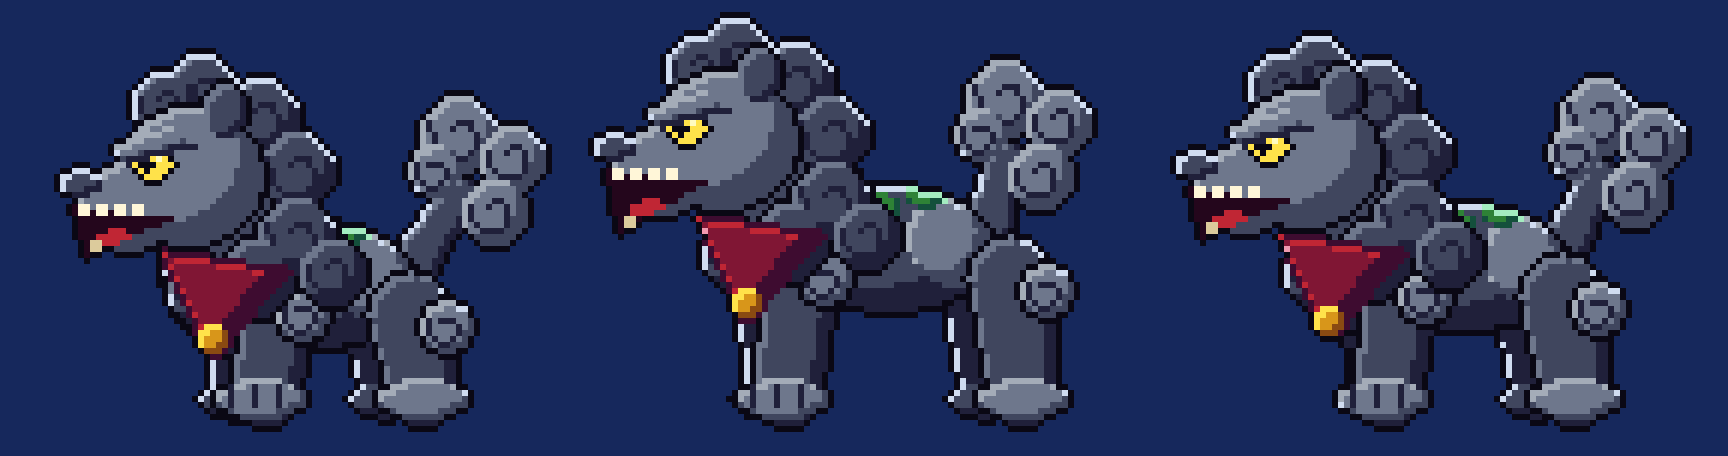
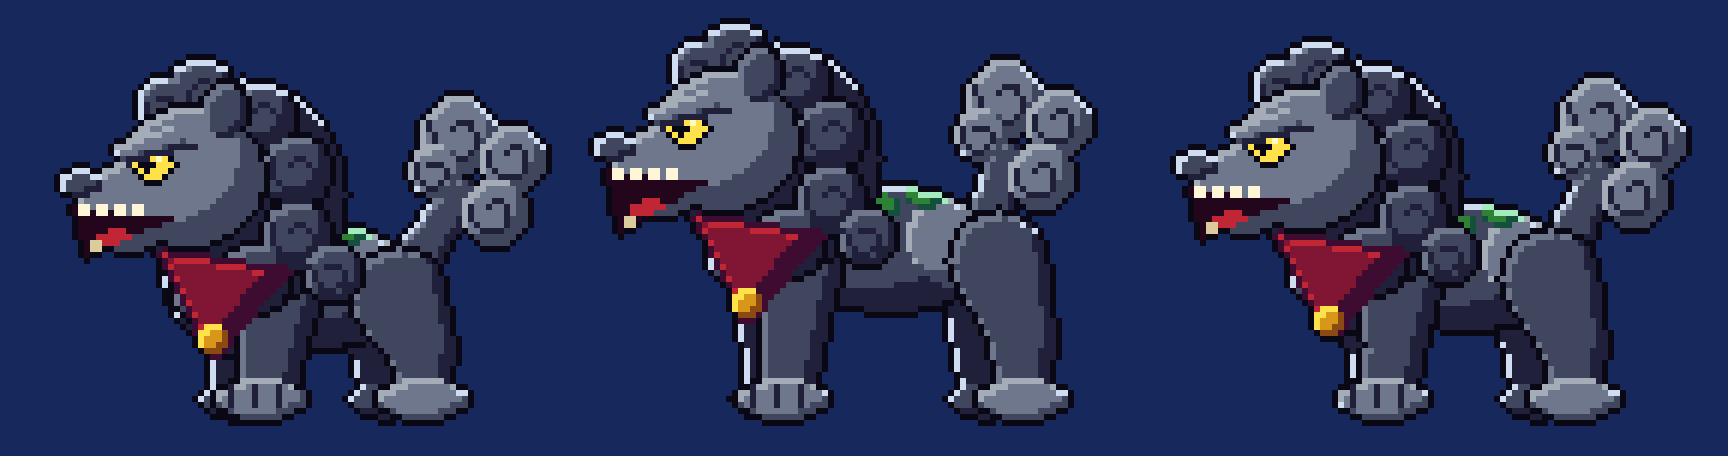
Runde 97: Sprites überarbeitet – Zashiki-warashi (Gesicht sichtbar), Komainu (keine Gelenkkugeln), Nuppeppo (Gesicht, Falten, Warzen), Tsurube-otoshi (wirres Haar statt Hutkrempe)
Claude-Session: https://claude.ai/code/session_01KhgxT7a5tRTGeQVFkHSAcV

diff --git a/art_src/fable/enemies_5/zashiki.py b/art_src/fable/enemies_5/zashiki.py
@@ -13,14 +13,14 @@ OBI = ('y0', 'y1', 'y2')
 SKIN = ('k1', 'k2', 'k3')
 HAIR = ('h0', 'hb', 'h2')
 FACE = """
-KK.....
-.......
-Ke.....
-.......
-.......
-.q.....
+.........
+.KK..KK..
+.Ke..Ke..
+.........
+pp.....pp
+....q....
 """
-LEG = dict(K='K', e='e1', q='m0')
+LEG = dict(K='K', e='v3', q='m0', p='p2')
 
 
 def draw(bob=0, step=0, arm=0, ball=0):
@@ -35,7 +35,7 @@ def draw(bob=0, step=0, arm=0, ball=0):
     c.stamp(p, 'K')
     # Kimono-Körper (Glocke) mit Obi
     p = C()
-    body = PG([(cx - 6, top + 8), (cx + 7, top + 8), (cx + 11, top + 26), (cx - 10, top + 26)])
+    body = PG([(cx - 6, top + 8), (cx + 7, top + 8), (cx + 11, top + 30), (cx - 10, top + 30)])
     p.form(body, KIM, sd=3, hl=1)
     for (x, y) in ((cx - 4, top + 13), (cx + 4, top + 18), (cx - 6, top + 22), (cx + 6, top + 24)):   # Blütenmuster
         p.pxs([(x, y), (x + 1, y), (x, y + 1)], 'v3')
@@ -45,7 +45,7 @@ def draw(bob=0, step=0, arm=0, ball=0):
     c.stamp(p, 'm0')
     # nahes Bein
     p = C()
-    p.form(L(cx - 3 + step, top + 24, 2.6, cx - 4 + step * 2, by - 2, 2.4), SKIN, sd=1, hl=1)
+    p.form(L(cx - 3 + step, top + 29, 2.6, cx - 4 + step * 2, by - 2, 2.4), SKIN, sd=1, hl=1)
     p.form(E(cx - 5 + step * 2, by - 1, 3.6, 1.8), ('w0', 'w1', 'w2'), sd=1, hl=1)
     c.stamp(p, 'K')
     # Kopf mit Pagenkopf (okappa)
@@ -54,21 +54,21 @@ def draw(bob=0, step=0, arm=0, ball=0):
     p.form(head, SKIN, sd=2, hl=1)
     c.stamp(p, 'k0')
     p = C()
-    hair = (E(cx + 1, top - 2, 8.4, 6.4) | R(cx - 8, top - 2, cx + 9, top + 4) | R(cx + 1, top - 2, cx + 9, top + 8)) & ~(R(cx - 8, top + 1, cx - 1, top + 9))
+    hair = (E(cx + 1, top - 2, 8.6, 6.6) | R(cx - 8, top - 3, cx + 9, top) | R(cx + 3, top - 2, cx + 9, top + 8)) & ~(R(cx - 8, top + 1, cx + 3, top + 9))
     p.form(hair, HAIR, sd=2, hl=1)
-    p.line([(cx - 8, top), (cx - 1, top)], 'h0')                                          # gerader Pony
+    p.line([(cx - 8, top), (cx + 3, top)], 'h0')                                          # gerader Pony
     c.stamp(p, 'K')
     p = C()
     p.grid(cx - 7, top + 1, FACE, LEG)
     c.stamp(p, ring=False)
     # Arm mit Temari-Ball
     p = C()
-    hx, hy = cx - 10 - arm * 2, top + 14 - arm * 6
-    p.form(L(cx - 4, top + 10, 3.0, hx + 2, hy + 1, 3.4), KIM, sd=1, hl=1)              # Ärmel
+    hx, hy = cx - 9 - arm * 2, top + 17 - arm * 7
+    p.form(L(cx - 2, top + 13, 3.0, hx + 2, hy + 1, 3.4), KIM, sd=1, hl=1)              # Ärmel
     p.form(E(hx, hy, 1.8, 1.8), SKIN, sd=0, hl=0)
     c.stamp(p, 'm0')
     p = C()
-    bx, byy = hx - 3 - ball * 4, hy - 4 - ball * 3
+    bx, byy = hx - 4 - ball * 4, hy + 1 - ball * 6
     tm = E(bx, byy, 4.4, 4.4)
     p.form(tm, ('n1', 'n2', 'n3'), sd=1, hl=1)
     p.line([(bx - 4, byy), (bx + 4, byy)], 'y2', only=tm)

diff --git a/art_src/fable/enemies_4/tsurube_otoshi.py b/art_src/fable/enemies_4/tsurube_otoshi.py
@@ -33,33 +33,40 @@ def draw(dy=0, mouth=0, sway=0):
     cx, cy = CX + sway, CY + dy
     # Haar: lange Strähnen nach oben (fällt herab) und zu den Seiten
     p = C()
-    hair = E(cx, cy - 6, 34, 30)
-    for i in range(11):
-        a = math.radians(-160 + i * 14)
-        L_ = 18 + (i * 5 % 9)
-        bx, by = cx + math.cos(a) * 24, cy - 6 + math.sin(a) * 22
-        tx = bx + math.cos(a) * L_ + sway * 0.5
-        ty = by + math.sin(a) * L_ - 6
-        hair |= L(bx, by, 6, tx, ty, 1.2)
-    for s_ in (-1, 1):
-        hair |= L(cx + s_ * 28, cy, 7, cx + s_ * 34, cy + 26, 2.0)
+    hair = E(cx, cy - 4, 31, 28)
+    for i in range(13):                                            # wirre Strähnen, vom Fall nach oben gerissen
+        a = math.radians(-170 + i * 13 + (7 if i % 2 else -4))
+        L_ = 14 + (i * 7 % 11)
+        bx, by = cx + math.cos(a) * 22, cy - 4 + math.sin(a) * 20
+        mx, my = bx + math.cos(a) * L_ * 0.5 + (3 if i % 3 == 0 else -2), by + math.sin(a) * L_ * 0.5 - 3
+        tx, ty = bx + math.cos(a) * L_ + sway * 0.6 + (4 if i % 2 else -3), by + math.sin(a) * L_ - 7
+        hair |= L(bx, by, 5.5, mx, my, 3.2) | L(mx, my, 3.2, tx, ty, 0.8)
+    for s_ in (-1, 1):                                             # lange Seitensträhnen hängen am Gesicht herab
+        hair |= L(cx + s_ * 25, cy - 2, 7, cx + s_ * 30, cy + 20, 3.4) | L(cx + s_ * 30, cy + 20, 3.4, cx + s_ * 27 + sway, cy + 36, 1.0)
     p.form(hair, ('h0', 'hb', 'h2'), sd=4, hl=1)
+    hair_p = p
     for i in range(9):
         x = cx - 26 + i * 6.5
         p.line([(x, cy - 30), (x + 2, cy - 8)], 'h0', only=hair)
     c.stamp(p, 'K')
     # Gesicht: breit, fahl, eingefallen
     p = C()
-    face = E(cx, cy + 6, 22, 24)
+    face = E(cx, cy + 7, 23, 25)
     p.form(face, SK, sd=5, hl=1)
     p.form(E(cx - 14, cy + 12, 6, 7) & face, ('k0', 'k1', 'k1'), sd=1, hl=0)      # eingefallene Wange
     p.form(E(cx + 14, cy + 12, 6, 7) & face, ('k0', 'k0', 'k1'), sd=1, hl=0)
-    # Stirnhaar (Pony) über dem Gesicht
-    p.form((E(cx, cy - 14, 24, 10) | L(cx - 20, cy - 10, 4, cx - 18, cy + 4, 2)) & ~E(cx, cy + 4, 16, 9), ('h0', 'hb', 'h2'), sd=2, hl=1)
     c.stamp(p, 'K')
     p = C()
     p.grid(int(cx - 10), int(cy - 4), FACE, LEGF)
     c.stamp(p, 'K', ring=False)
+    # zerzauste Stirnsträhnen über der Stirn (gleicher Haarblock, kein Band)
+    p = C()
+    bangs = np.zeros((px.H, px.W), bool)
+    for (ox, ln, ang) in ((-19, 13, 100), (-12, 16, 93), (-4, 12, 86), (4, 15, 96), (12, 13, 82), (19, 11, 72)):
+        bangs |= tri((cx + ox, cy - 17), ang, ln, 9)
+    bangs &= E(cx, cy + 2, 26, 30)
+    p.form(bangs, ('h0', 'hb', 'h2'), sd=2, hl=1)
+    c.stamp(p, 'K')
     c.blacken()
     return c
 

diff --git a/art_src/fable/enemies_4/nuppeppo.py b/art_src/fable/enemies_4/nuppeppo.py
@@ -9,16 +9,21 @@ FLD = ('fl0', 'fl1', 'fl2')
 CW, CH = 100, 100
 CX, BASE = 52, 94
 FACE = """
-.KK......KK.
-KqqK....KqqK
-KeqK....KqeK
-.KK......KK.
-............
-...KKKKKK...
-..KqqqqqqK..
-...KKKKKK...
+.ddddd....ddddd.
+dKKKKKd..dKKKKKd
+.KeeqK....KqeeK.
+..KKK......KKK..
+................
+.......dd.......
+......dKKd......
+................
+....dKKKKKKd....
+...KqqqqqqqqK...
+...KqWqqqqWqK...
+....KqqqqqqK....
+.....KKKKKK.....
 """
-LEGF = dict(K='K', q='q', e='e1')
+LEGF = dict(K='K', q='q', e='v3', d='fl1', W='b3')
 
 
 def draw(sq=0.0, dx=0, rise=0):
@@ -35,17 +40,22 @@ def draw(sq=0.0, dx=0, rise=0):
     body = E(cx, BASE - ht * 0.8, hw, ht * 0.8) | E(cx - 2, BASE - ht * 1.3, hw * 0.72, ht * 0.62)
     body &= (px.Y <= BASE)
     p.form(body, FL, sd=6, hl=2)
-    # Hautfalten (hängende Wülste)
-    for k, yy in enumerate((0.35, 0.62, 0.9)):
+    # Hautfalten: unregelmäßig hängende Wülste, an den Seiten tiefer
+    for k, (yy, x0, x1, sag) in enumerate(((0.42, -0.85, 0.2, 4), (0.55, 0.0, 0.8, 3), (0.72, -0.9, -0.1, 5), (0.8, 0.2, 0.9, 4))):
         y = BASE - ht * 2 * (1 - yy) * 0.82
-        p.line([(cx - hw * 0.8, y), (cx - hw * 0.3, y + 3), (cx + hw * 0.2, y + 2), (cx + hw * 0.75, y - 1)], 'fl0', only=body)
-        p.line([(cx - hw * 0.7, y - 1), (cx - hw * 0.25, y + 2)], 'fl3', only=body)
+        xa, xb = cx + hw * x0, cx + hw * x1
+        pts = [(xa, y - 2), ((xa + xb) / 2, y + sag), (xb, y - 1)]
+        p.line(pts, 'fl0', only=body)
+        p.line([(xa + 2, y - 3), ((xa + xb) / 2, y + sag - 1)], 'fl3', only=body)
+    for (ox, oy) in ((-0.5, 0.55), (0.45, 0.4), (0.15, 0.75), (-0.2, 0.3)):            # Warzen
+        x_, y_ = int(cx + hw * ox), int(BASE - ht * 2 * (1 - oy) * 0.82)
+        p.fill(E(x_, y_, 1.4, 1.2) & body, 'fl1'); p.pxs([(x_ - 1, y_ - 1)], 'fl3')
     # Bauchnabel-Falte und hängende Lappen am Boden
     p.form(E(cx - hw * 0.55, BASE - 4, 7, 4) & body, FLD, sd=1, hl=0)
     p.form(E(cx + hw * 0.5, BASE - 3, 8, 3) & body, FLD, sd=1, hl=0)
     c.stamp(p, 'K')
     # Gesicht (klein, verschwommen, oben)
-    p = C(); p.grid(int(cx - 9), int(BASE - ht * 1.6), FACE, LEGF); c.stamp(p, 'K', ring=False)
+    p = C(); p.grid(int(cx - 10), int(BASE - ht * 1.62), FACE, LEGF); c.stamp(p, 'K', ring=False)
     # Stummelarm vorn
     p = C(); p.form(L(cx - hw + 7, BASE - ht, 4.6, cx - hw - 4, BASE - ht + 9 - rise * 0.8, 3.6), FL, sd=2, hl=1)
     for d in (-1, 1):

diff --git a/art_src/fable/enemies_5/komainu.py b/art_src/fable/enemies_5/komainu.py
@@ -62,22 +62,23 @@ def draw(bob=0, fl=0, fr=0, bl=0, br=0, lean=0, jaw=0, tail=0):
     c.stamp(p, 'K')
     # --- nahe Beine mit Lockenbüscheln
     p = C()
-    near = L(44 + fl, 48 + bob, 6.4, 42 + fl, by - 3, 5.4) | L(68 + bl, 50 + bob, 7, 70 + bl, by - 3, 5.4)
+    near = (L(44 + fl, 46 + bob, 7.0, 43 + fl, 58 + bob * 0.5, 5.0) | L(43 + fl, 58 + bob * 0.5, 5.0, 42 + fl, by - 3, 4.4)
+            | L(66 + bl, 47 + bob, 8.0, 70 + bl, 57 + bob * 0.5, 5.4) | L(70 + bl, 57 + bob * 0.5, 5.4, 70 + bl, by - 3, 4.4))
     p.form(near, ST, sd=2, hl=1)
     paws = E(41 + fl, by - 2, 7.4, 3.4) | E(70 + bl, by - 2, 7.4, 3.4)
     p.form(paws, STL, sd=1, hl=1)
     for x in (36, 40, 44):
         p.line([(x + fl, by - 4), (x + fl, by - 1)], 'z0', only=paws)
     c.stamp(p, 'K')
+    # --- Mähne: dunkle Grundmasse, darüber der Lockenkranz
     p = C()
-    curl(p, 48 + fl, 50 + bob, 4.4, STL, 'z0')
-    curl(p, 74 + bl, 52 + bob, 4.4, STL, 'z0')
+    base = E(hx + 9, hy + 3, 17, 19)
+    p.form(base, ('z0', 'z0', 'z1'), sd=2, hl=0)
     c.stamp(p, 'K')
-    # --- Mähne: Lockenkranz hinter dem Kopf und über die Brust
     p = C()
     for (dx, dy, r) in ((2, -14, 6.4), (12, -10, 6.4), (18, -1, 6.4), (18, 10, 6.4), (11, 17, 6.4),
                         (-4, -12, 5.4), (24, 16, 5.4), (2, 19, 5.4)):
-        curl(p, hx + dx, hy + dy, r, MANE, 'z0')
+        curl(p, hx + dx, hy + dy, r - 0.6, MANE, 'z0')
     c.stamp(p, 'K')
     # --- rotes Lätzchen mit Glocke
     p = C()

diff --git a/art_src/fable/enemies_4/common.py b/art_src/fable/enemies_4/common.py
@@ -109,3 +109,9 @@ def export(name, fn, walk, attack, static=None):
     a = np.array(base)
     semi = int(((a[:, :, 3] > 0) & (a[:, :, 3] < 255)).sum())
     print(name, 'static', base.size, 'cell', (cw, ch), 'orphans', len(orphans(base)), 'semi', semi)
+
+
+def tri(o, ang, ln, w):
+    """Spitze/Büschel: Basis mittig auf o (Breite w), Spitze in Richtung ang (Grad)"""
+    t = pol(o, ang, ln)
+    return PG([pol(o, ang + 90, w / 2), t, pol(o, ang - 90, w / 2)])
